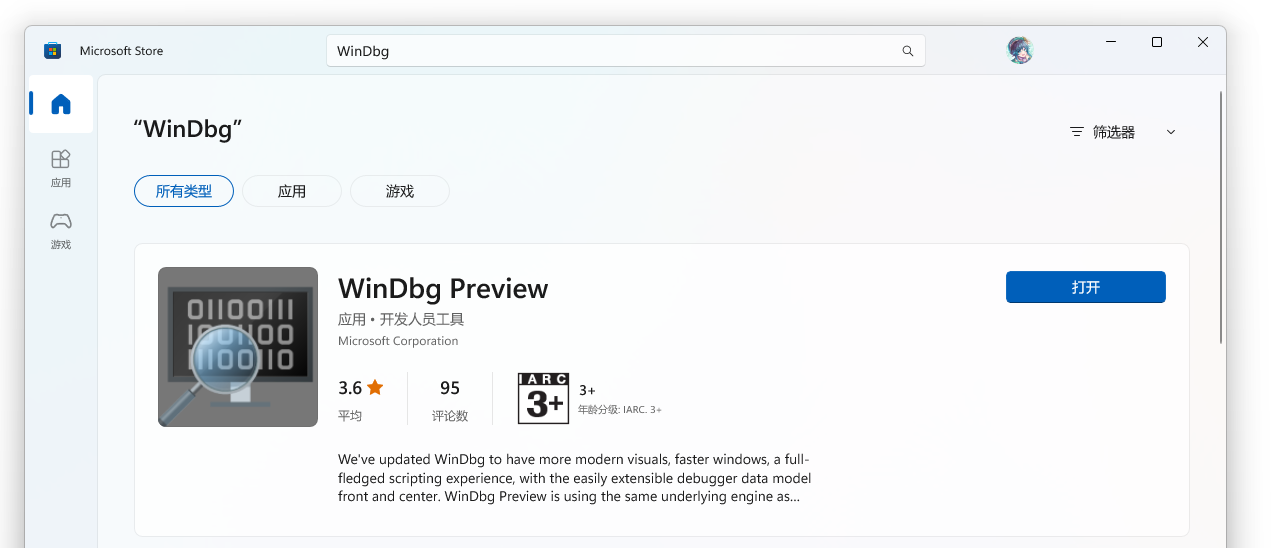
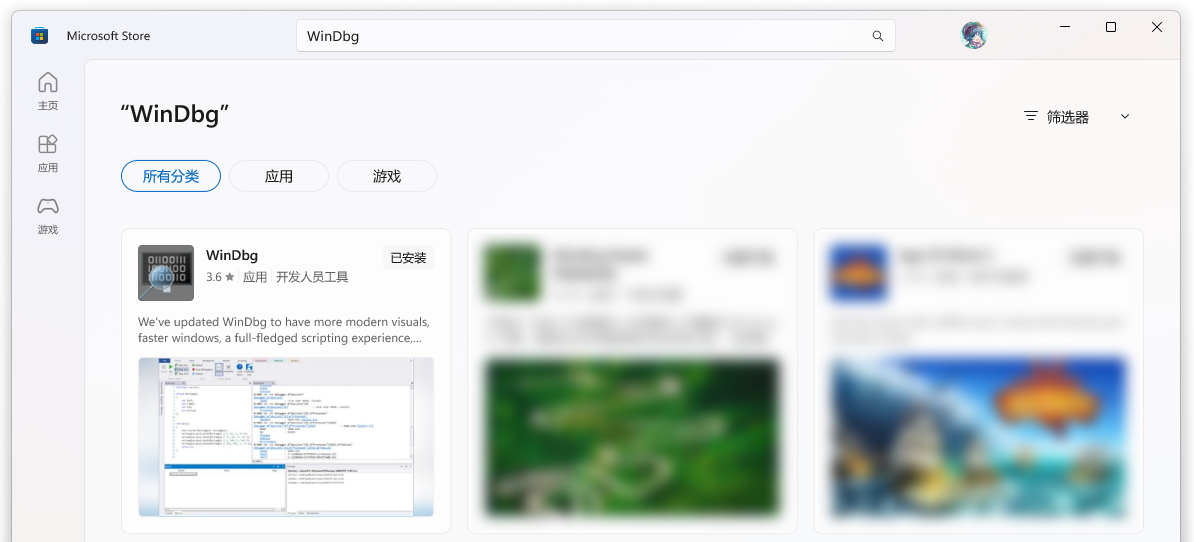
Update WinDbg download.

diff --git a/missing/recover-from-bsod.md b/missing/recover-from-bsod.md
@@ -145,7 +145,7 @@ Beginning dump of physical memory.
 
 现在，我们的电脑已经会自动在蓝屏发生时收集内存信息并形成内存转储文件了。而想要分析这些内存转储文件，我们需要特殊的工具——WinDbg（Windows 调试器）。
 
-打开 Microsoft Store，也就是微软应用商店，在上面搜索「WinDbg」，跳出来的第一个应用会是「WinDbg Preview」（没错它还是预览版），点击【获取】，等待一会，就安装好了。如果不想在 Microsoft Store 安装，也可以去微软提供的 [WinDbg 官方页面](https://learn.microsoft.com/zh-cn/windows-hardware/drivers/debugger/)下载。
+打开 Microsoft Store，也就是微软应用商店，在上面搜索「WinDbg」，跳出来的第一个应用就会是它，点击【获取】，等待一会，就安装好了。如果不想在 Microsoft Store 安装，也可以去微软提供的 [WinDbg 官方页面](https://learn.microsoft.com/zh-cn/windows-hardware/drivers/debugger/)下载。
 
 ![WinDbg](recover-from-bsod/WinDbg.png)
 
